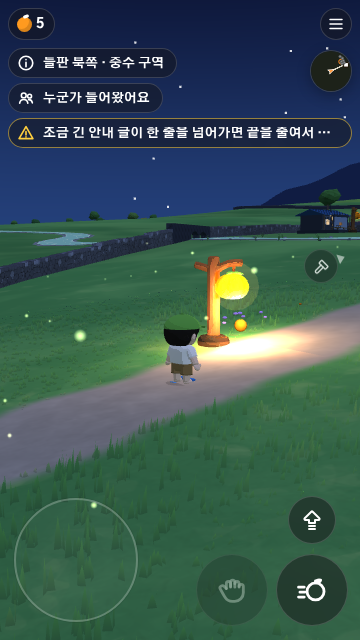
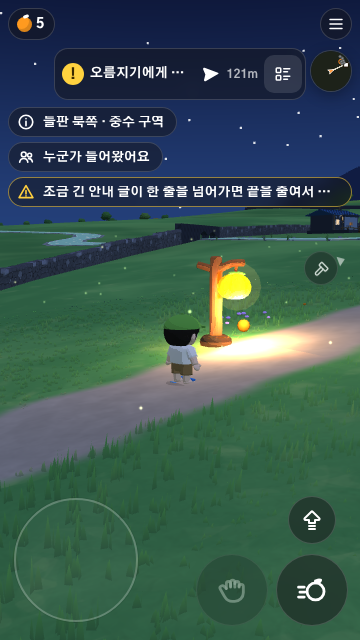
#252 위 칸이 바뀌면 바로 자리 잡기·검사 정리

diff --git a/src/game/msglog.js b/src/game/msglog.js
@@ -96,13 +96,17 @@ function layout() {
   const below = (el) => { if (!el || el.hidden) return; const b = el.getBoundingClientRect(); if (!b.height || b.right < L || b.left > R || b.top > y + 120) return; y = Math.max(y, b.bottom + MSG.gap + 2); };
   below(document.getElementById('quest-track'));
   const tt = document.getElementById('tut-toast'), tutOn = !!tt && !tt.hidden;
-  if (tutOn) { tt.style.top = y + 'px'; y += tt.offsetHeight + MSG.gap + 2; }
+  if (tutOn) { setTop(tt, y); y += tt.offsetHeight + MSG.gap + 2; }
   pinEl.hidden = !pin || tutOn; /* 둘이면 튜토리얼 우선 */
-  if (!pinEl.hidden) { pinEl.style.top = y + 'px'; y += MSG.h + MSG.gap + 2; }
+  if (!pinEl.hidden) { setTop(pinEl, y); y += MSG.h + MSG.gap + 2; }
   for (const id of STACK.slice(1)) below(document.getElementById(id));
-  logEl.style.top = y + 'px';
+  setTop(logEl, y);
 }
+function setTop(el, y) { const t = Math.round(y) + 'px'; if (el.style.top !== t) el.style.top = t; } /* 같은 값이면 안 씀 (지켜보기가 다시 부르지 않게) */
 
+/* 위 칸이 나타나거나 바뀌면 바로 자리 다시 (느린 기기에서 프레임을 기다리지 않게) */
+const mo = new MutationObserver(() => layout()); let moSeen = '';
+function watch() { const ids = ['topbar', 'tut-toast', ...STACK].filter((id) => document.getElementById(id)); const k = ids.join(); if (k === moSeen) return; moSeen = k; mo.disconnect(); for (const id of ids) mo.observe(document.getElementById(id), { attributes: true, attributeFilter: ['hidden', 'style', 'class'] }); }
 export function tickMsg(dt) {
   state.ticks.msg = (state.ticks.msg || 0) + 1;
   const h = held();
@@ -114,7 +118,7 @@ export function tickMsg(dt) {
     const first = live()[0]; if (first && first.t <= 0) drop(first);
   }
   if (pin && (pin.t -= dt) <= 0) unpin();
-  if ((layT -= dt) <= 0) { layT = 0.1; layout(); }
+  if ((layT -= dt) <= 0) { layT = 0.1; watch(); layout(); }
 }
 
 /* 감독(director.js)이 '다른 글이 떠 있나' 볼 때: 줍기·얻음 줄은 셈하지 않음 */

diff --git a/tools/msgshot.js b/tools/msgshot.js
@@ -4,7 +4,7 @@
 // 오래된 것부터 사라짐, 같은 글은 ×N 으로 합침, 고정 한 줄(터 밖)은 로그 위, 증강 창이 뜨면 감추고 닫히면 최근 3개
 const path = require('path'), fs = require('fs');
 const ok = (c, m) => { console.log((c ? '통과 ' : '실패 ') + m); if (!c) process.exitCode = 1; };
-const SIZES = [[360, 640, true], [390, 844, true], [1280, 720, false]];
+const SIZES = [[360, 640, true], [390, 844, true], [1280, 720, false]].filter((z) => !process.argv[2] || String(z[0]) === process.argv[2]);
 (async () => {
   const { chromium } = require('playwright');
   const b = await chromium.launch({ args: ['--use-gl=angle', '--use-angle=swiftshader', '--enable-unsafe-swiftshader'] });
@@ -35,7 +35,7 @@ const SIZES = [[360, 640, true], [390, 844, true], [1280, 720, false]];
     ok(r.rects.every((a, i) => r.rects.every((c, j) => i === j || !hit(a, c))), `${tag}: 줄끼리 안 겹침`);
     ok(new Set(r.rects.map((a) => Math.round(a[3] - a[1]))).size === 1, `${tag}: 같은 높이 ${r.rects.map((a) => Math.round(a[3] - a[1]))}`);
     const bad = r.others.filter((o) => r.rects.some((a) => hit(a, o.slice(1)))).map((o) => o[0]);
-    ok(!bad.length, `${tag}: 버튼·위쪽 줄과 안 겹침 ${bad.join(',')}`);
+    ok(!bad.length, `${tag}: 버튼·위쪽 줄과 안 겹침 ${bad.length ? JSON.stringify({ bad: r.others.filter((o) => bad.includes(o[0])), lines: r.rects }) : ''}`);
     ok(r.seen[5][0] !== '귤 +3' && r.seen[5].slice(-1)[0].startsWith('조금 긴'), `${tag}: 새 것은 아래, 넘치면 오래된 것부터 빠짐`);
     const r2 = await pg.evaluate(async () => {
       const o = window.__oreum, W = (ms) => new Promise((res) => setTimeout(res, ms)); o.msglog.clear(); await W(500);
